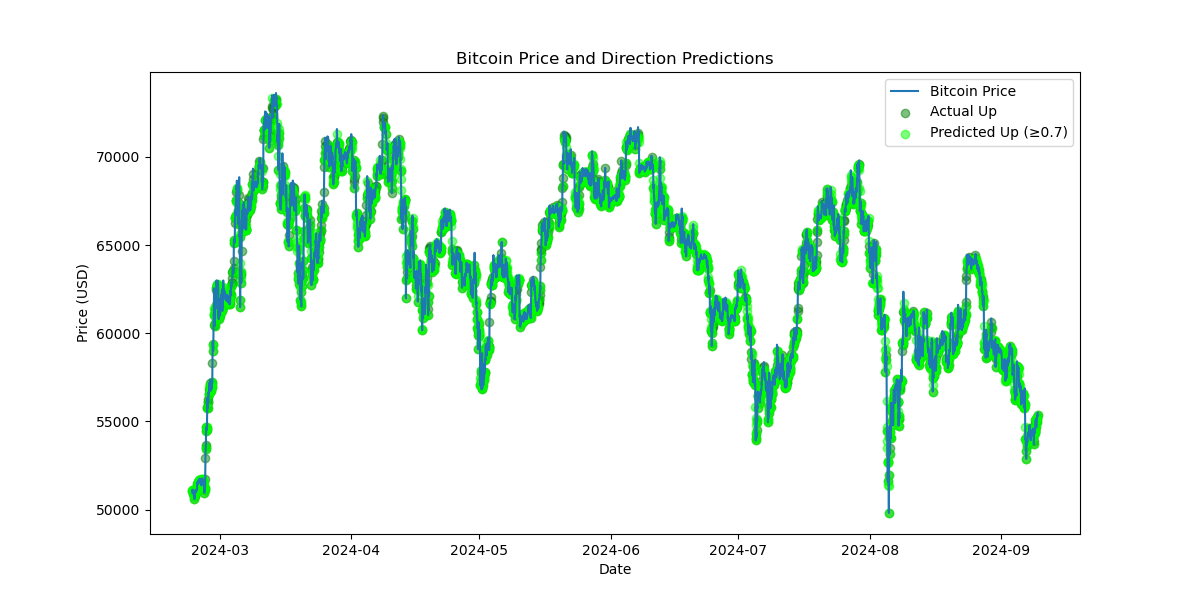
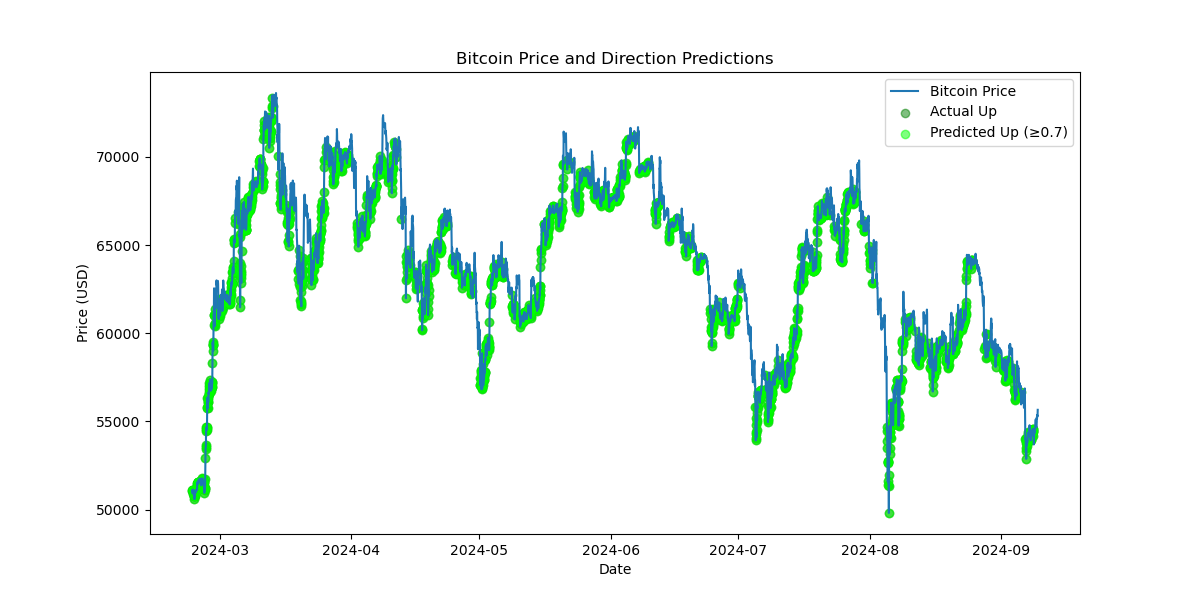
add arima model, Adjust Prediction Horizon (24h)

diff --git a/test_bitcoin_model.py b/test_bitcoin_model.py
@@ -34,11 +34,10 @@ def prepare_historical_data(candles):
     # Add volatility (20-hour rolling standard deviation of returns)
     df['volatility'] = df['pct_change'].rolling(window=20).std()
     
-    # Add direction (1 for up, 0 for down or no change)
-    df['direction'] = (df['close'].shift(-1) > df['close']).astype(int)
+    # Add direction (1 for up, 0 for down or no change) for 24 hours ahead
+    df['direction'] = (df['close'].shift(-24) > df['close']).astype(int)  # Shift by 24 hours
 
     # Add market condition (this is a placeholder, you may want to calculate it based on your analysis)
-    # For now, we can set it to a default value (e.g., 0 for Neutral)
     df['market_condition'] = 0  # Default value, you can modify this later based on your analysis
 
     # Add lagged features
@@ -73,16 +72,17 @@ def main():
     model.train(df)
     print("\nModel trained successfully.")
 
-    # Make prediction for the next day
+    # Make prediction for the next 24 hours
     last_known_values = df.iloc[-1][['volume', 'rsi', 'macd', 'signal', 'pct_change', 'volatility', 'market_condition']]
     # Add lagged values
     for col in ['close', 'volume', 'rsi', 'macd', 'signal', 'pct_change', 'volatility']:
         last_known_values[f'lagged_{col}'] = df.iloc[-2][col]
 
+    # Create a DataFrame for prediction
     future_prediction = model.predict(pd.DataFrame([last_known_values]))
     print(future_prediction)
-    print("\nPrediction for the next day:")
-    future_date = df['date'].iloc[-1] + timedelta(hours=1)
+    print("\nPrediction for the next 24 hours:")
+    future_date = df['date'].iloc[-1] + timedelta(hours=24)  # Adjust for 24 hours ahead
     if future_prediction[0] >= 0.7:
         predicted_direction = "Up"
     elif future_prediction[0] <= 0.3:
@@ -129,6 +129,13 @@ def main():
     plt.legend()
     plt.savefig('bitcoin_direction_prediction.png')
     print("\nDirection prediction plot saved as 'bitcoin_direction_prediction.png'")
+
+    # # Fit ARIMA model
+    # arima_model = model.fit_arima(df)
+
+    # # Make a prediction for the next hour
+    # arima_forecast = model.predict_arima(arima_model, steps=1)
+    # print(f"ARIMA forecast for the next hour: {arima_forecast}")
 
 if __name__ == "__main__":
     main()

diff --git a/ml_model.py b/ml_model.py
@@ -4,6 +4,7 @@ from sklearn.model_selection import train_test_split, cross_val_score, GridSearc
 from sklearn.preprocessing import StandardScaler
 from technicalanalysis import TechnicalAnalysis  # Import TechnicalAnalysis
 from coinbaseservice import CoinbaseService
+import statsmodels.api as sm  # Import statsmodels for ARIMA
 
 class BitcoinPredictionModel:
     def __init__(self, coinbase_service):
@@ -73,6 +74,18 @@ class BitcoinPredictionModel:
         
         print(f"Cross-validation scores: {cv_scores}")
         print(f"Mean CV score: {cv_scores.mean():.4f}")
+
+    def fit_arima(self, df):
+        # Fit an ARIMA model
+        model = sm.tsa.ARIMA(df['close'], order=(5, 1, 0))  # Adjust order as needed
+        model_fit = model.fit()
+        print(model_fit.summary())
+        return model_fit
+
+    def predict_arima(self, model_fit, steps=1):
+        # Forecast the next 'steps' time points
+        forecast = model_fit.forecast(steps=steps)
+        return forecast
 
     def predict(self, features):
         # Ensure all required features are present
